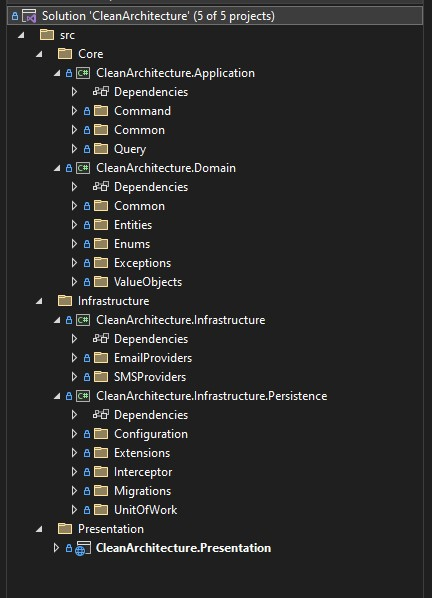
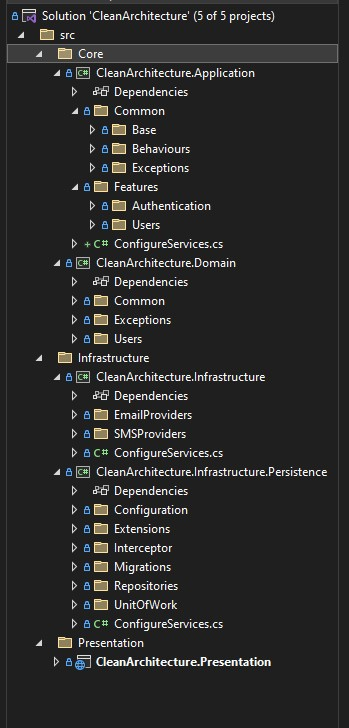
--fix configure services

Changed region(s): [[0.0, 0.0, 1.0, 0.9331]]

diff --git a/src/CleanArchitecture.Infrastructure.Persistence/ConfigureServices.cs b/src/CleanArchitecture.Infrastructure.Persistence/ConfigureServices.cs
@@ -1,5 +1,6 @@
-using Microsoft.Extensions.DependencyInjection;
-using System.Reflection;
+using CleanArchitecture.Domain.Users;
+using CleanArchitecture.Infrastructure.Persistence.Repositories.UserRepositories;
+using Microsoft.Extensions.DependencyInjection;
 
 namespace CleanArchitecture.Infrastructure;
 
@@ -7,6 +8,8 @@ public static class ConfigureServices
 {
     public static IServiceCollection RegisterPersistenceServices(this IServiceCollection services)
     {
+        services.AddScoped<IUserWriteRepository, UserWriteRepository>();
+        services.AddScoped<IUserReadRepository, UserReadRepository>();
 
 
         return services;

diff --git a/src/CleanArchitecture.Presentation/Program.cs b/src/CleanArchitecture.Presentation/Program.cs
@@ -1,3 +1,6 @@
+using CleanArchitecture.Application;
+using CleanArchitecture.Presentation;
+
 var builder = WebApplication.CreateBuilder(args);
 
 // Add services to the container.
@@ -6,7 +9,8 @@ builder.Services.AddControllers();
 
 builder.Services.RegisterApplicationServices()
                 .RegisterInfrastructureServices()
-                .RegisterPersistenceServices();
+                .RegisterPersistenceServices()
+                .RegisterPresentationServices();
 
 // Learn more about configuring Swagger/OpenAPI at https://aka.ms/aspnetcore/swashbuckle
 builder.Services.AddEndpointsApiExplorer();

diff --git a/src/CleanArchitecture.Presentation/ConfigureServices.cs b/src/CleanArchitecture.Presentation/ConfigureServices.cs
@@ -1,0 +1,10 @@
+namespace CleanArchitecture.Presentation;
+
+public static class ConfigureServices
+{
+    public static IServiceCollection RegisterPresentationServices(this IServiceCollection services)
+    {
+        services.AddHttpContextAccessor();
+        return services;
+    }
+}

diff --git a/src/CleanArchitecture.Application/ConfigureServices.cs b/src/CleanArchitecture.Application/ConfigureServices.cs
@@ -4,7 +4,7 @@ using MediatR;
 using Microsoft.Extensions.DependencyInjection;
 using System.Reflection;
 
-namespace OnionArchitecture.Application.Features;
+namespace CleanArchitecture.Application;
 
 public static class ConfigureServices
 {
